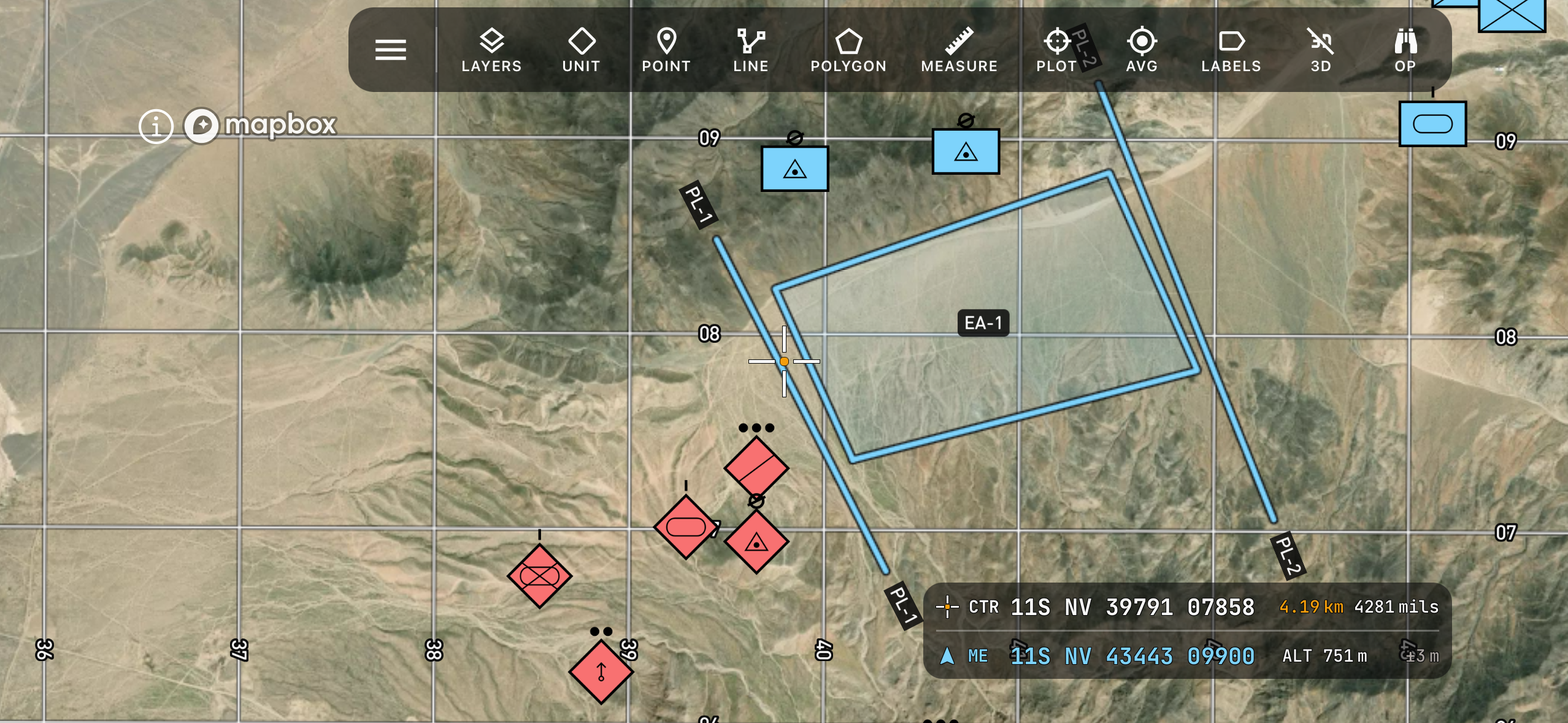
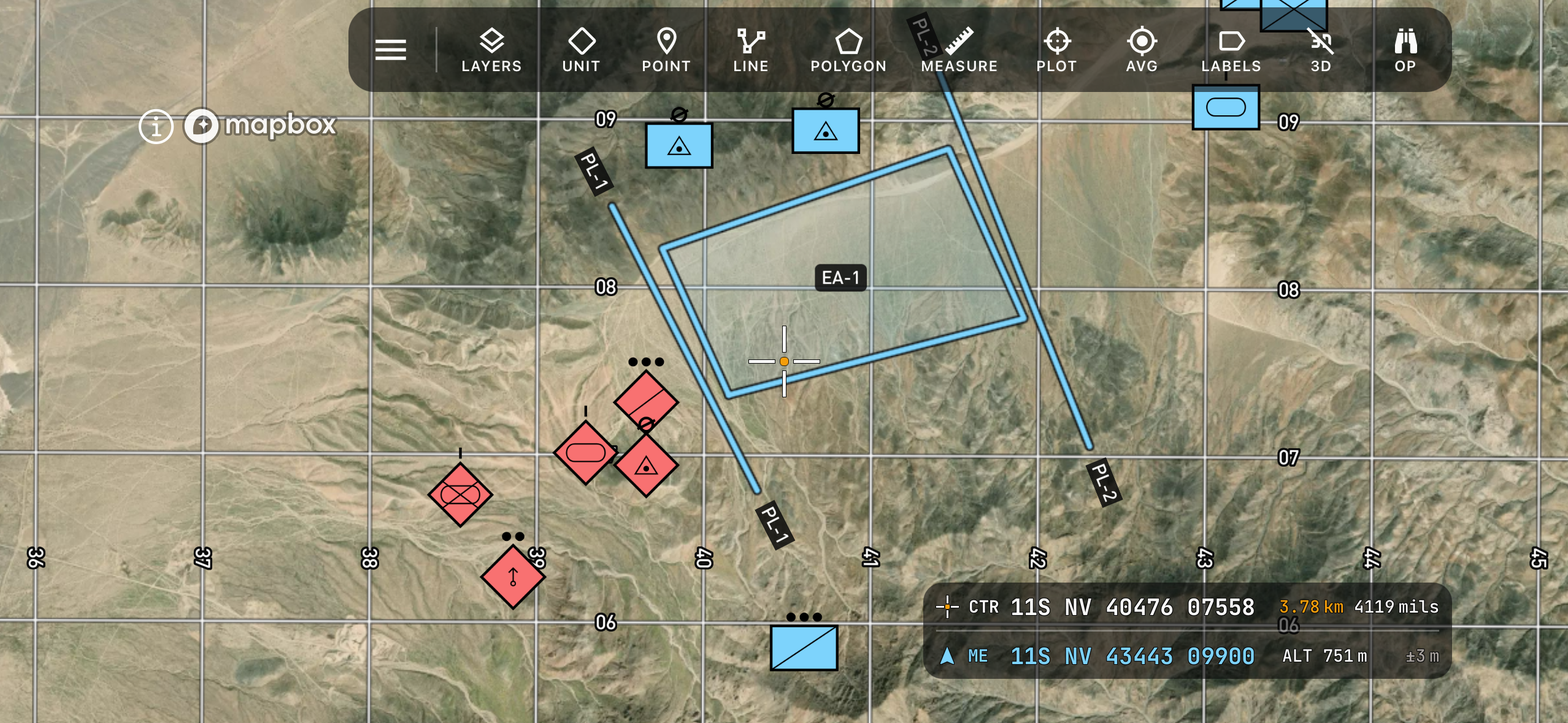
feat: use matched on/off screenshots for the MGRS grid switch

diff --git a/src/content/screenshots.ts b/src/content/screenshots.ts
@@ -1,4 +1,5 @@
 import type { StaticImageData } from 'next/image';
+import gridOff from '@/assets/screenshots/grid-off.png';
 import landing from '@/assets/screenshots/landing.png';
 import landscape3d from '@/assets/screenshots/landscape-3d.png';
 import landscapeGrid from '@/assets/screenshots/landscape-grid.png';
@@ -17,7 +18,7 @@ import unit from '@/assets/screenshots/unit.png';
 
 export type ScreenshotKey =
   | 'map' | 'threeD' | 'op' | 'unit' | 'quickPlot' | 'measure' | 'polygon' | 'overlays' | 'missions' | 'landing'
-  | 'landscapeMap' | 'landscapeGrid' | 'landscape3d' | 'landscapeLayers' | 'rangeRing';
+  | 'landscapeMap' | 'landscapeGrid' | 'gridOff' | 'landscape3d' | 'landscapeLayers' | 'rangeRing';
 export type Screenshot = { src: StaticImageData; alt: string };
 
 /** Real iPhone screenshots of the app, shown whole. The landscape ones are 2556 × 1179. */
@@ -33,7 +34,8 @@ export const screenshots: Record<ScreenshotKey, Screenshot> = {
   missions: { src: missions, alt: 'RTAP missions list: the last opened mission with its map preview and counts of units, points, lines and polygons' },
   landing: { src: landing, alt: 'RTAP welcome screen: the RTAP logo, "Locate. Communicate. Dominate." and two friendly units ranging a hostile' },
   landscapeMap: { src: landscapeMap, alt: 'RTAP in landscape: the full toolbar across the top, friendly and hostile units, phase lines PL-1 and PL-2 and engagement area EA-1 on satellite imagery' },
-  landscapeGrid: { src: landscapeGrid, alt: 'RTAP in landscape with the MGRS grid on: labelled 1 km grid lines over the satellite map, with units, phase lines and engagement area EA-1' },
+  landscapeGrid: { src: landscapeGrid, alt: 'RTAP in landscape with the MGRS grid on: 1 km grid lines labelled 36 to 45 and 06 to 09 over the satellite map, with units, phase lines and engagement area EA-1' },
+  gridOff: { src: gridOff, alt: 'The same RTAP map with the MGRS grid off: units, phase lines PL-1 and PL-2 and engagement area EA-1 on clear satellite imagery' },
   landscape3d: { src: landscape3d, alt: 'RTAP in landscape and 3D: hostile units on the slopes of a desert valley, a friendly unit in the foreground and the CTR and ME grid readouts' },
   landscapeLayers: { src: landscapeLayers, alt: 'RTAP in landscape with the layers panel open beside the map, listing 12 units with their grids while the map stays visible' },
   rangeRing: { src: rangeRing, alt: 'RTAP range ring: the unit card for HOS-7, a hostile mortar section with a 3200 m range ring, beside the map showing the ring around it' },

diff --git a/src/components/GridToggle.test.tsx b/src/components/GridToggle.test.tsx
@@ -7,7 +7,7 @@ it('starts with the grid on and shows the gridded screenshot', () => {
   render(<GridToggle />);
   expect(screen.getByRole('switch', { name: /mgrs grid/i })).toHaveAttribute('aria-checked', 'true');
   expect(screen.getByAltText(screenshots.landscapeGrid.alt)).toBeVisible();
-  expect(screen.queryByAltText(screenshots.landscapeMap.alt)).toBeNull();
+  expect(screen.queryByAltText(screenshots.gridOff.alt)).toBeNull();
 });
 
 it('turns the grid off and back on', async () => {
@@ -15,7 +15,7 @@ it('turns the grid off and back on', async () => {
   const sw = screen.getByRole('switch', { name: /mgrs grid/i });
   await userEvent.click(sw);
   expect(sw).toHaveAttribute('aria-checked', 'false');
-  expect(screen.getByAltText(screenshots.landscapeMap.alt)).toBeInTheDocument();
+  expect(screen.getByAltText(screenshots.gridOff.alt)).toBeInTheDocument();
   expect(screen.queryByAltText(screenshots.landscapeGrid.alt)).toBeNull();
   await userEvent.click(sw);
   expect(sw).toHaveAttribute('aria-checked', 'true');

diff --git a/src/content/screenshots.test.ts b/src/content/screenshots.test.ts
@@ -2,7 +2,7 @@ import { screenshots } from './screenshots';
 
 it('has a screenshot with descriptive alt text for every key', () => {
   expect(Object.keys(screenshots).sort()).toEqual(
-    ['landing', 'landscape3d', 'landscapeGrid', 'landscapeLayers', 'landscapeMap', 'map', 'measure', 'missions', 'op', 'overlays', 'polygon', 'quickPlot', 'rangeRing', 'threeD', 'unit'].sort(),
+    ['landing', 'landscape3d', 'gridOff', 'landscapeGrid', 'landscapeLayers', 'landscapeMap', 'map', 'measure', 'missions', 'op', 'overlays', 'polygon', 'quickPlot', 'rangeRing', 'threeD', 'unit'].sort(),
   );
   for (const [key, s] of Object.entries(screenshots)) {
     expect(s.src, key).toBeTruthy();

diff --git a/src/components/GridToggle.tsx b/src/components/GridToggle.tsx
@@ -6,10 +6,10 @@ import { screenshots } from '@/content/screenshots';
 
 const SHOTS = [
   { on: true, shot: screenshots.landscapeGrid },
-  { on: false, shot: screenshots.landscapeMap },
+  { on: false, shot: screenshots.gridOff },
 ] as const;
 
-/** The same map with the MGRS grid on and off, behind a real switch. Both images stay mounted so the swap cross-fades. */
+/** The same map, from the same spot, with the MGRS grid on and off, behind a real switch. Both images stay mounted so the swap cross-fades. */
 export function GridToggle() {
   const [on, setOn] = useState(true);
   return (
